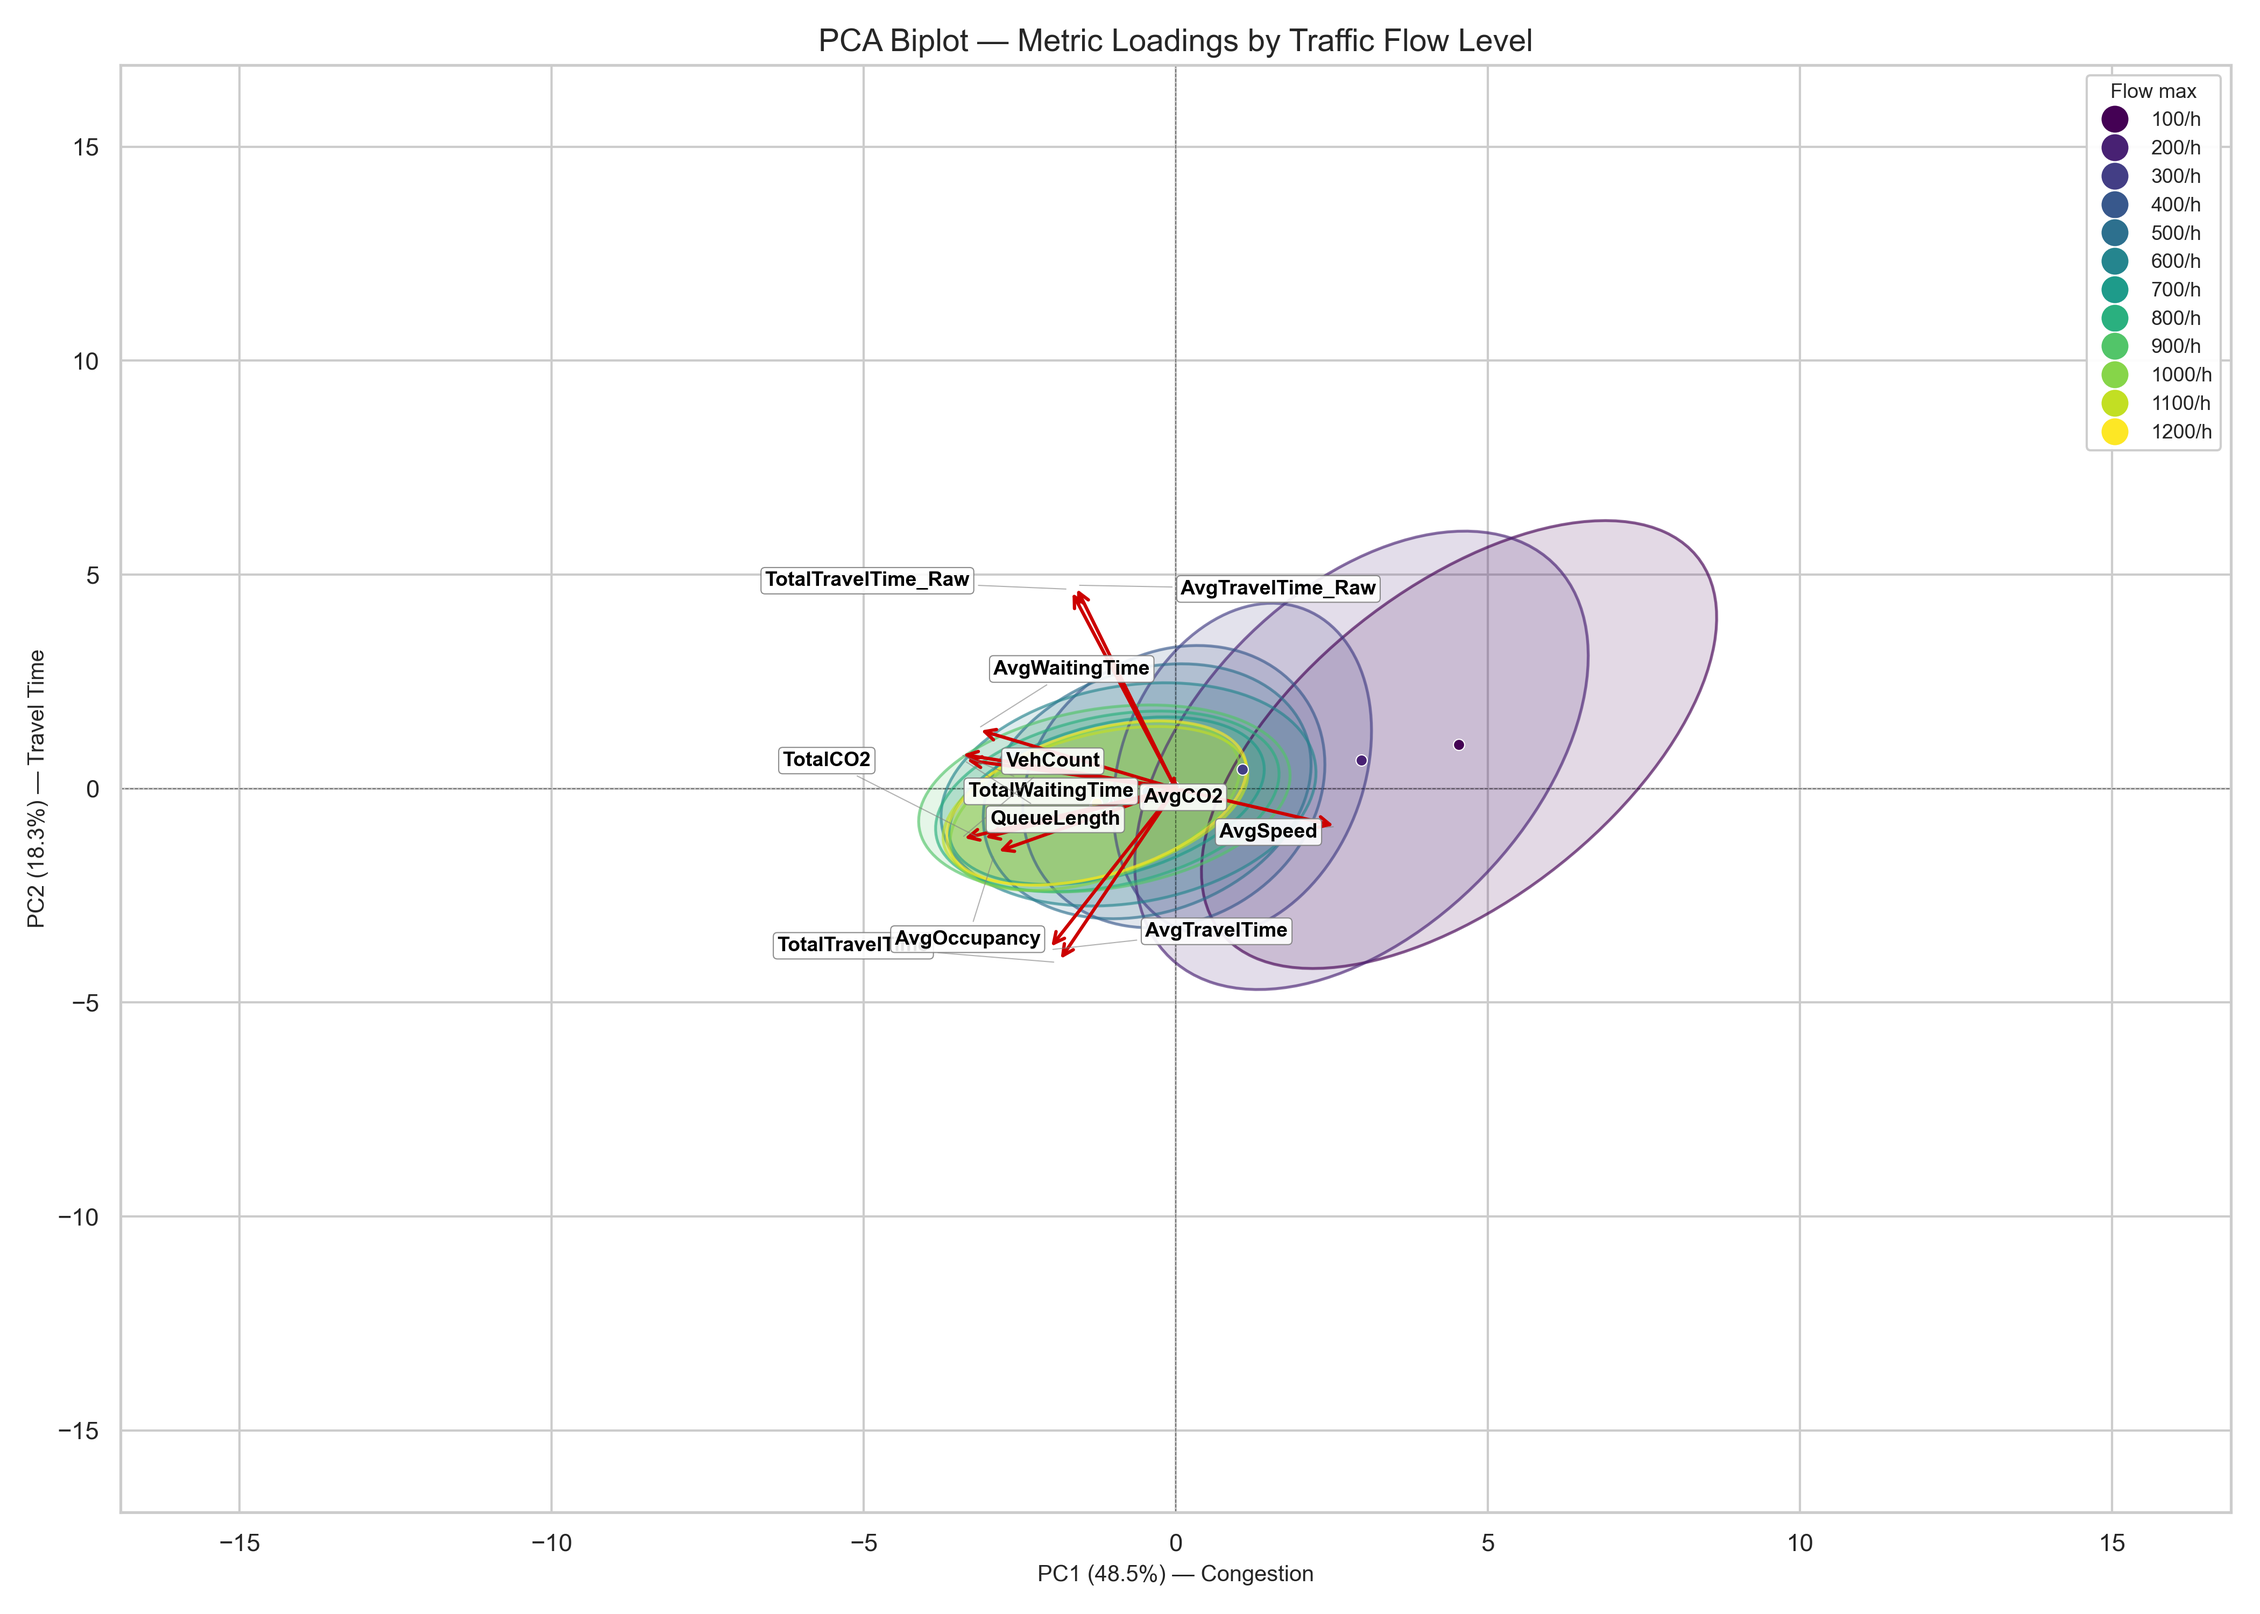
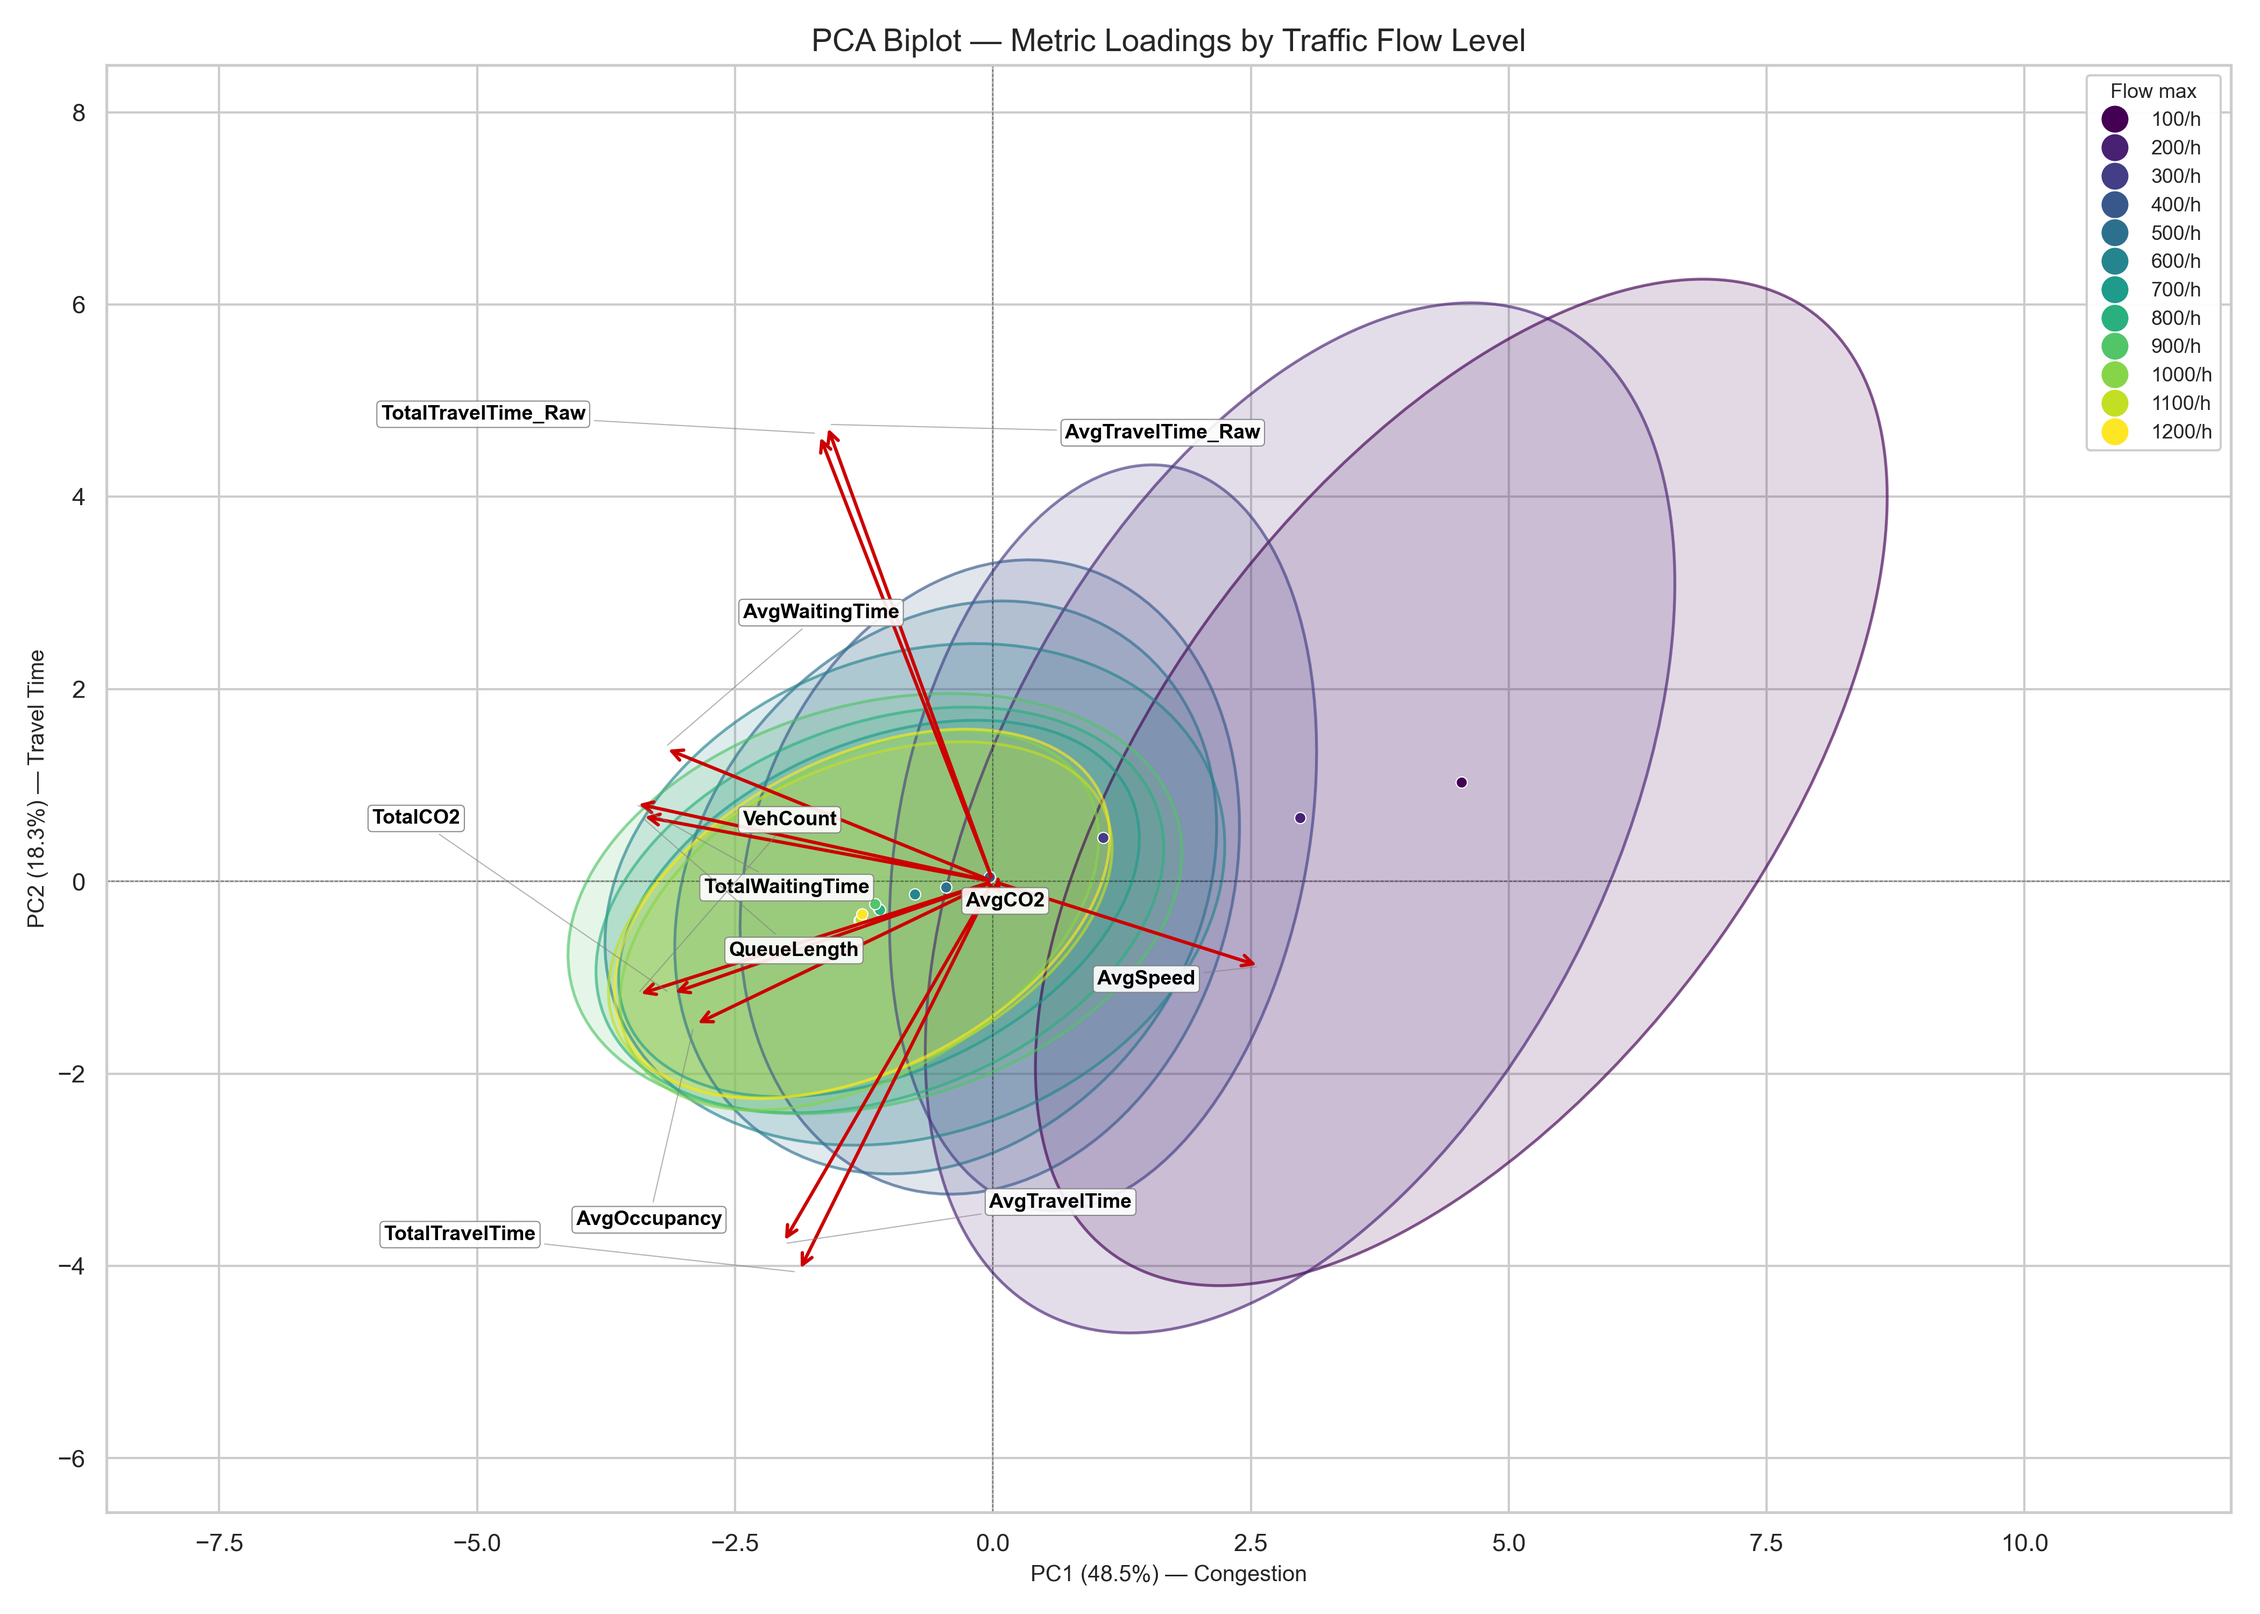
fix: tighten PCA biplot axis limits to eliminate wasted space
Axis limits now computed from actual visible content (ellipse bounding
boxes + label positions) instead of raw PCA data outliers. Reduces
empty margins from ~40% to ~5% of plot area.

diff --git a/metric_collection_test.py b/metric_collection_test.py
@@ -339,6 +339,11 @@ def run_pca_analysis(output_dir):
     def draw_biplot(ax, show_legend=True, fontsize_labels=7, fontsize_legend=7):
         # Flow szintenkénti 2σ konfidencia-ellipszis (scatter felhő helyett!)
         from matplotlib.patches import Ellipse
+
+        # Ellipszis szélességek/pozíciók gyűjtése a tengely-limithez
+        all_extents_x = [0.0]
+        all_extents_y = [0.0]
+
         for fl in unique_flows:
             fl_mask = flow_levels == fl
             pc1_fl = pca_result[fl_mask, 0]
@@ -350,6 +355,12 @@ def run_pca_analysis(output_dir):
             eigenvalues, eigenvectors = np.linalg.eigh(cov)
             angle = np.degrees(np.arctan2(eigenvectors[1, 1], eigenvectors[0, 1]))
             width, height = 2 * 2.0 * np.sqrt(eigenvalues)  # 2σ ellipszis
+
+            # Ellipszis bounding box (konzervatív: félátlók összeadása)
+            half_diag = max(width, height) / 2.0
+            all_extents_x.extend([mean_x - half_diag, mean_x + half_diag])
+            all_extents_y.extend([mean_y - half_diag, mean_y + half_diag])
+
             ell = Ellipse(xy=(mean_x, mean_y), width=width, height=height, angle=angle,
                           facecolor=flow_color_map[fl], edgecolor=flow_color_map[fl],
                           alpha=0.15, lw=1.5, linestyle='-', zorder=1)
@@ -395,16 +406,20 @@ def run_pca_analysis(output_dir):
                         ha='center', va='center', zorder=11,
                         bbox=dict(boxstyle='round,pad=0.2', fc='white', ec='gray', alpha=0.9, lw=0.5),
                         arrowprops=dict(arrowstyle='-', color='gray', lw=0.5, alpha=0.6))
+            # Label pozícióját is hozzávesszük a tengely-limithez
+            all_extents_x.extend([tx - 1.5, tx + 1.5])  # ~label szélesség margó
+            all_extents_y.extend([ty - 0.8, ty + 0.8])
 
         ax.set_xlabel(f'PC1 ({explained_var[0]:.1f}%) — Congestion', fontsize=10)
         ax.set_ylabel(f'PC2 ({explained_var[1]:.1f}%) — Travel Time', fontsize=10)
         ax.axhline(0, color='black', lw=0.4, ls='--', alpha=0.5)
         ax.axvline(0, color='black', lw=0.4, ls='--', alpha=0.5)
-        # Auto-range az adatok alapján
-        margin = 1.2
-        max_range = np.max(np.abs(pca_result[:, :2])) * margin
-        ax.set_xlim(-max_range, max_range)
-        ax.set_ylim(-max_range, max_range)
+
+        # Tengely-limit: a tényleges tartalom (ellipszisek + labelek) alapján
+        pad = 1.5
+        ax.set_xlim(min(all_extents_x) - pad, max(all_extents_x) + pad)
+        ax.set_ylim(min(all_extents_y) - pad, max(all_extents_y) + pad)
+
         if show_legend:
             ax.legend(fontsize=fontsize_legend, loc='upper right', markerscale=2.5,
                       framealpha=0.95, title='Flow max', title_fontsize=fontsize_legend)
